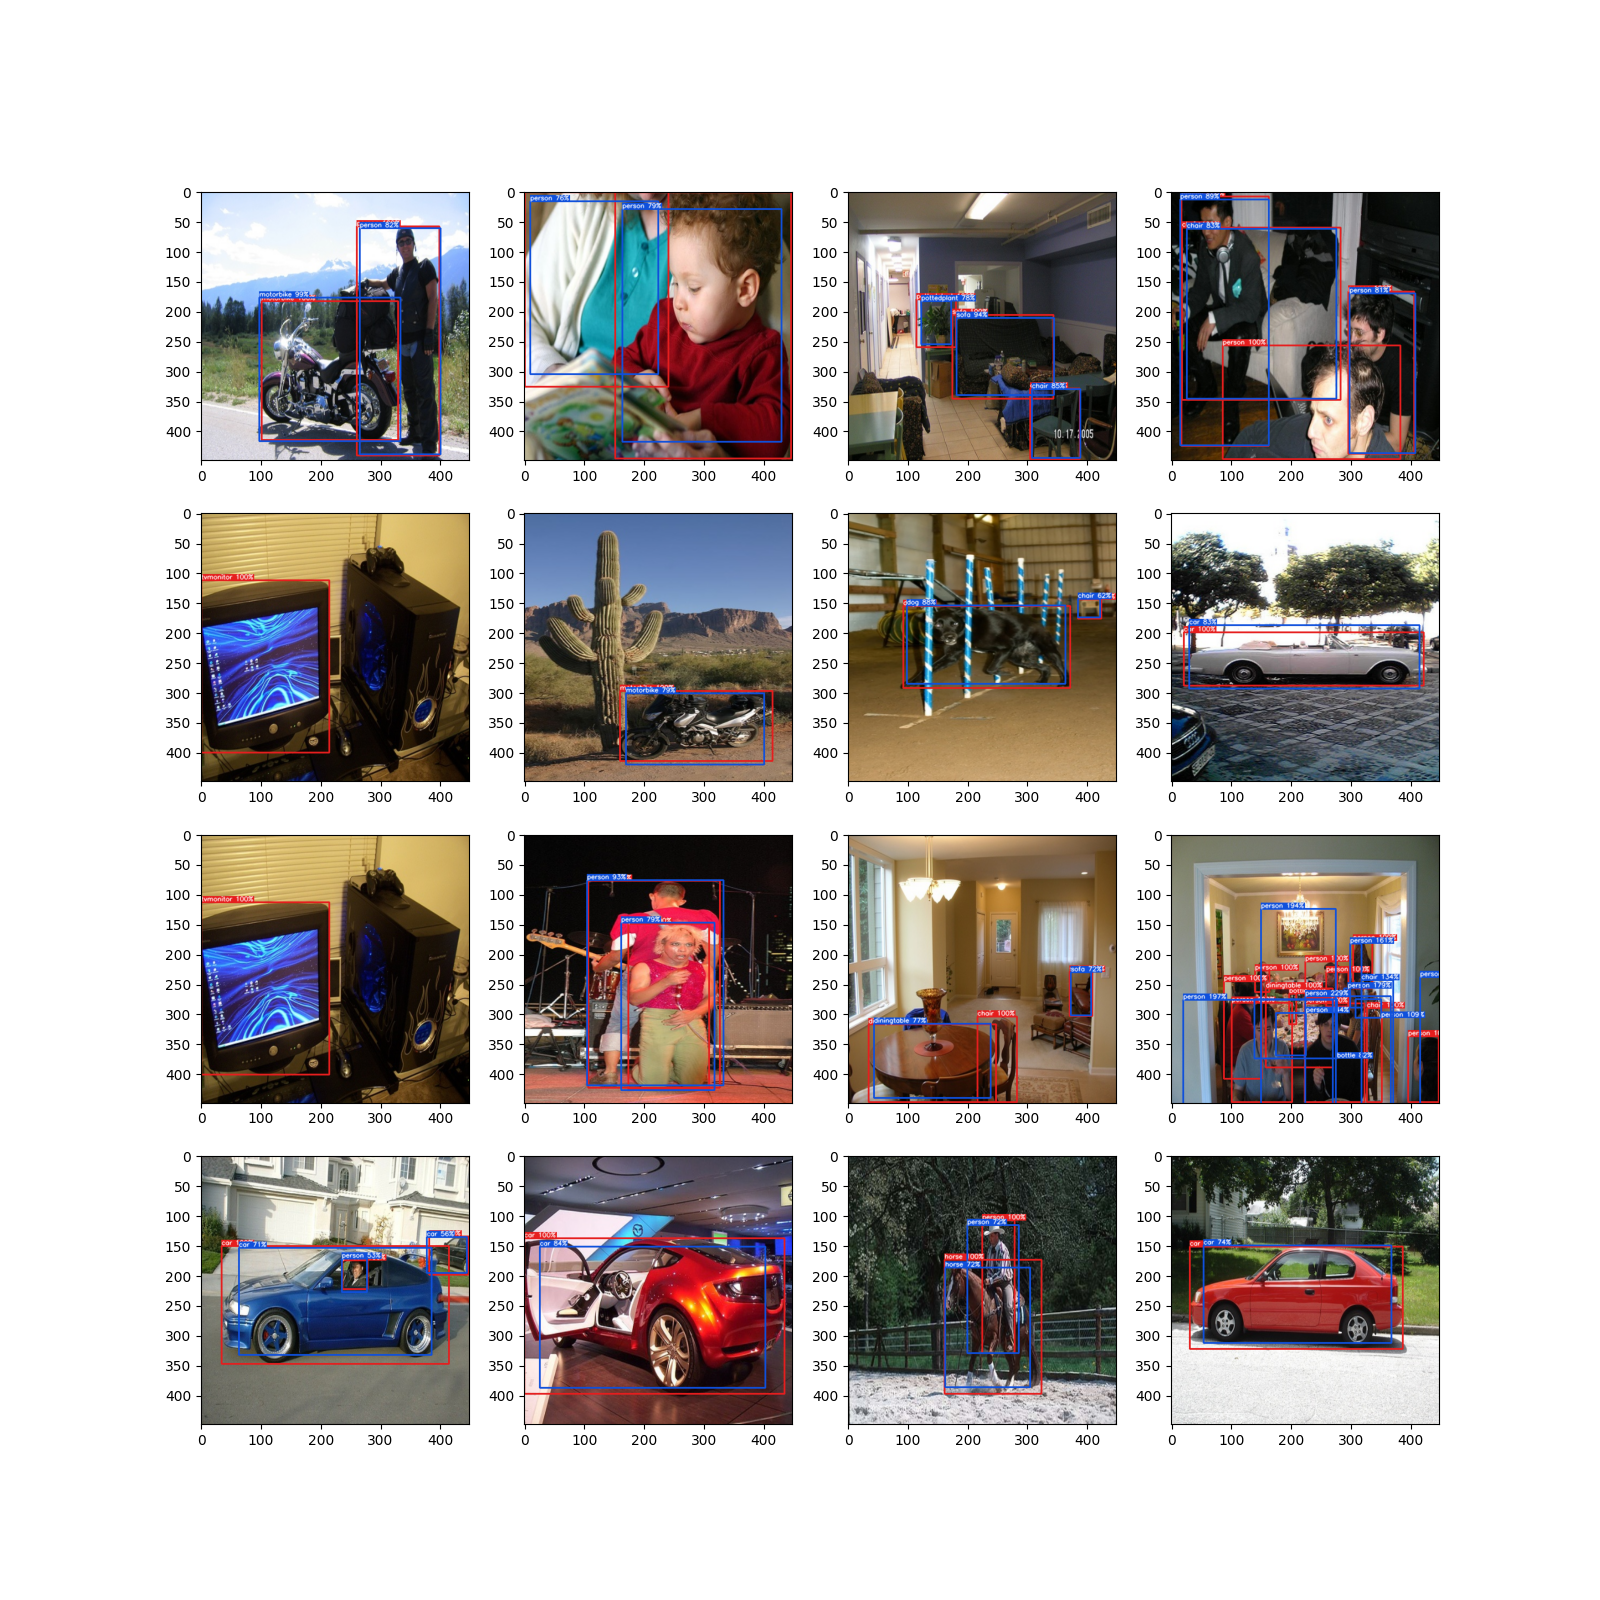
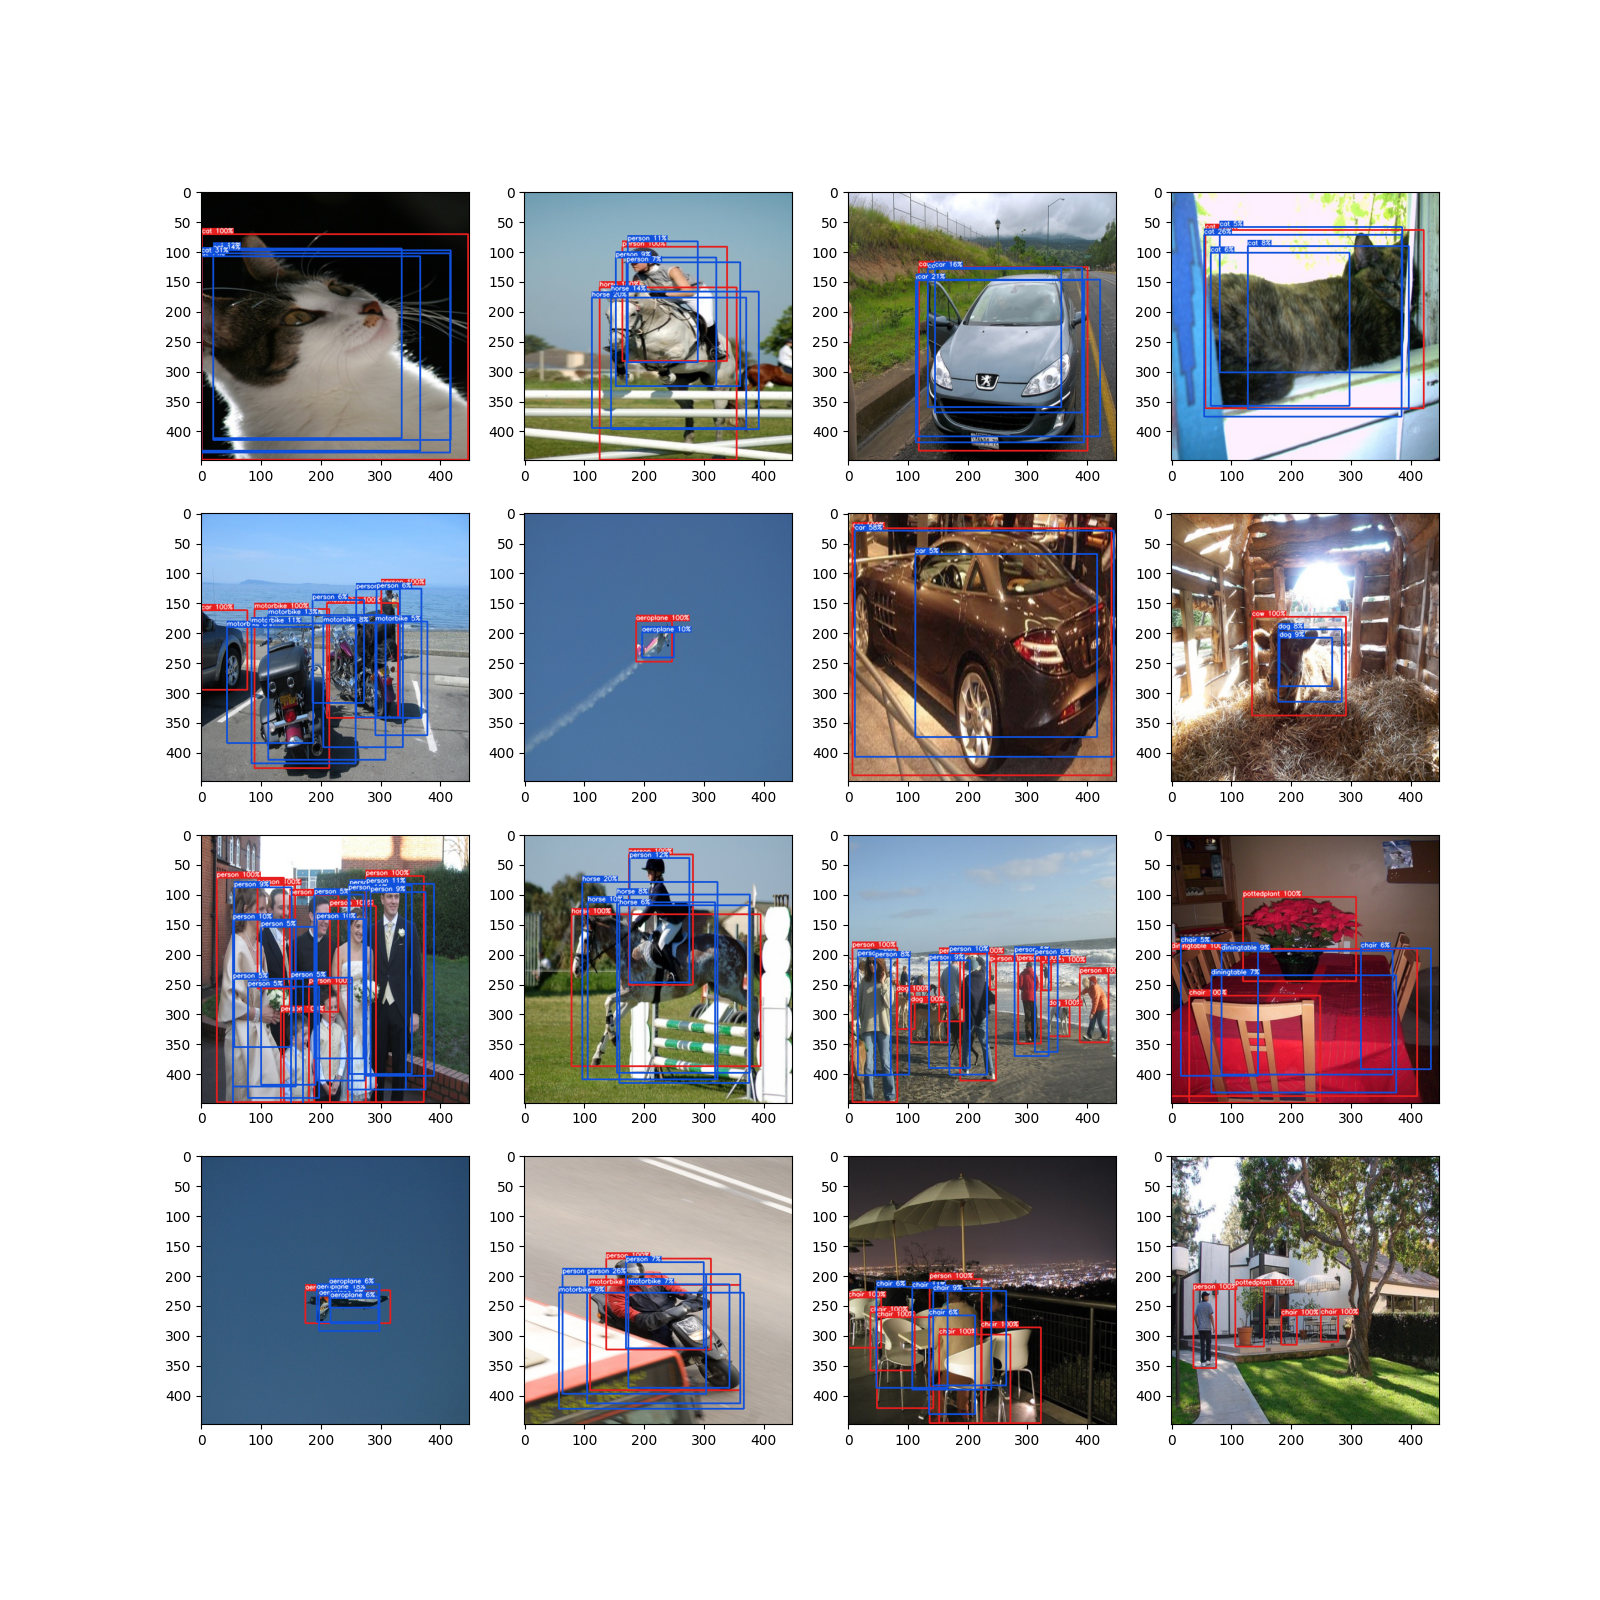
it almost worksgit status

diff --git a/data.py b/data.py
@@ -100,8 +100,8 @@ def list_to_label(label, split_size=7, num_classes=20):
         if label_matrix[row, col, num_classes] or not torch.all(torch.tensor([row,col]) == torch.clamp(torch.tensor([row,col]), min=0, max=split_size-1)): continue
 
         # Transform the box to relative coordinates
-        relativeX, relativeY = split_size * x - col, split_size * y - row
-        width, height = (width * split_size, height * split_size)
+        relativeX, relativeY = x * split_size - col, y * split_size - row
+        #width, height = (width, height * split_size)
 
         # Enter the label into the tensor
         label_matrix[row, col, num_classes] = 1
@@ -115,8 +115,6 @@ def label_to_list(label, split_size = 7, num_classes = 20, threshold = 0.5):
     """Transforms the labels in (7,7,30) or (7,7,25) tensor format into list
     type labels used in the data files and the visualization functions.
     """
-
-    label = label[..., 0:25]
 
     boxes = {
         "bboxes": [],
@@ -135,8 +133,8 @@ def label_to_list(label, split_size = 7, num_classes = 20, threshold = 0.5):
                 x, y, w, h = label[row,col,(num_classes + i*5 + 1):(num_classes + (i+1)*5)].tolist()
                 x = (x + col)/split_size
                 y = (y + row)/split_size
-                w = w/split_size
-                h = h/split_size
+                w = w
+                h = h
                 class_index = torch.argmax(label[row,col,:num_classes])
 
                 boxes['bboxes'].append([x,y,w,h])
@@ -145,13 +143,19 @@ def label_to_list(label, split_size = 7, num_classes = 20, threshold = 0.5):
 
     return boxes
 
-def get_VOC_dataset(params):
+def get_VOC_dataset(params, augment = True):
     transform = albumentations.Compose([
                     #albumentations.Resize(width = 448, height = 448),
                     albumentations.HorizontalFlip(p=0.5),
                     albumentations.RandomResizedCrop(width = 448, height = 448, scale=(0.7, 1.0)),
                     albumentations.ColorJitter(),
-                    ], bbox_params=albumentations.BboxParams(format="yolo", min_visibility=0.75, label_fields=['class_ids']))
+                    albumentations.Blur(blur_limit = 7, always_apply = False, p = 0.5),
+                    albumentations.GaussNoise(var_limit = 40, mean = 0, per_channel = True, always_apply = False, p=0.5)
+                    ], bbox_params=albumentations.BboxParams(format="yolo", min_visibility=0.75, label_fields=['class_ids'])
+                    ) if augment else albumentations.Compose([
+                    albumentations.Resize(width = 448, height = 448),
+                    ], bbox_params=albumentations.BboxParams(format="yolo", min_visibility=0.75, label_fields=['class_ids'])
+                    )
 
     return VOCDataset(
                 params['training_csv'],

diff --git a/train.py b/train.py
@@ -72,7 +72,7 @@ def init(device, model_name, params, features):
     
     if model_name == 'yolo':
         scheduler = WrappedChainScheduler([
-            torch.optim.lr_scheduler.LinearLR(optimizer, start_factor = 0.1, total_iters = 30),
+            torch.optim.lr_scheduler.LinearLR(optimizer, start_factor = 0.1, end_factor = 1.0, total_iters = 10),
             torch.optim.lr_scheduler.MultiStepLR(optimizer, milestones = [75, 105, 135])
             #torch.optim.lr_scheduler.ReduceLROnPlateau(optimizer)
         ])
@@ -85,7 +85,7 @@ def init(device, model_name, params, features):
     loss_function = YoloLoss() if model_name == 'yolo' else torch.nn.CrossEntropyLoss()
     loss_function = loss_function.to(device)
     
-    dataset = get_VOC_dataset(params) if model_name == 'yolo' else get_ImageNet_dataset(params)
+    dataset = get_VOC_dataset(params, augment=True) if model_name == 'yolo' else get_ImageNet_dataset(params)
 
     data_loader = DataLoader(
             dataset = dataset,
@@ -109,13 +109,14 @@ models = {
 @click.option('-f', '--features', help = 'Parent model checkpoint to extract a feature detector from.')
 @click.option('-s', '--seed', type=int, help = 'Manual seed for deterministic behavior.')
 @click.option('-p', '--params', 'param_filename', help = 'Specify a different parameter file.')
-def main(model_name, new, features, seed, param_filename, view): 
+def main(model_name, new, features, seed, param_filename): 
     device = "cuda" if torch.cuda.is_available() else "cpu"
     if not seed is None: torch.manual_seed(seed)
     
     param_filename = param_filename if param_filename else "config/" + model_name + ".json"
     with open(param_filename, "r") as FILE: params = json.load(FILE)
     model, optimizer, loss_function, data_loader, scheduler = init(device, model_name, params, features)
+    
     if not new: load_checkpoint(model, optimizer, scheduler, model_name)
 
     train(device, model, optimizer, loss_function, data_loader, scheduler, params, model_name)

diff --git a/visualize.py b/visualize.py
@@ -6,7 +6,7 @@ import albumentations
 import math
 import cv2
 from torch.utils.data import DataLoader
-from data import VOCDataset
+from data import get_VOC_dataset
 from model import Model
 from checkpoint import load_checkpoint
 
@@ -78,7 +78,7 @@ def visualize(device, model, data_loader, plots_per_row = 4):
         inferences = model(images.to(device)).reshape(1, 7, 7, 30).to('cpu')
         ax = axs[int(i/plots_per_row), i % plots_per_row]
         target_labels = label_to_list(targets[0, ...])
-        inference_labels = label_to_list(inferences[0, ...], threshold = 0.5)
+        inference_labels = label_to_list(inferences[0, ...], threshold = 0.05)
         
         image = (255 * images[0, ...]).type(torch.ByteTensor).permute(1, 2, 0).numpy()
         
@@ -93,16 +93,12 @@ def main():
     model = Model(classifier_name = f"yolo_classifier").to(device)
     load_checkpoint(model, None, None, "yolo")
 
-    transform = albumentations.Compose([
-                    albumentations.Resize(width = 448, height = 448),
-                    ], bbox_params=albumentations.BboxParams(format="yolo", min_visibility=0.75, label_fields=['class_ids']))
-
-    dataset = VOCDataset(
-                "data/100examples.csv",
-                transform = transform,
-                img_dir = "data/images",
-                label_dir = "data/labels"
-                )
+    dataset = get_VOC_dataset(params = {
+            'training_csv': "data/test.csv",
+            'img_dir': "data/images",
+            'label_dir': "data/labels"
+        },
+        augment=False)
 
     data_loader = DataLoader(
             dataset = dataset,

diff --git a/loss.py b/loss.py
@@ -11,7 +11,7 @@ def mean_average_precision(predictions, targets, min_iou = 0.5):
     num_target_boxes = 0
     for prediction, target in zip(predictions, targets):
         num_target_boxes += len(target['bboxes'])
-        for bbox, confidence in zip(predictions['bboxes'], predictions['confidences']):
+        for bbox, confidence in zip(prediction['bboxes'], prediction['confidences']):
             max_iou = max([intersection_over_union(bbox, target_bbox) for target_bbox in target['bboxes']])
             evaluations.append({
                 "confidence": confidence,
@@ -79,7 +79,7 @@ class YoloLoss(nn.Module):
                     box_predictions[..., i, 1:], 
                     box_target[..., i, 1:]
                     ).unsqueeze(0)
-                for i in range(2)
+                for i in range(self.num_boxes)
             ],
             dim = 0
             )

diff --git a/README.md b/README.md
@@ -57,8 +57,10 @@ Most of the implementation is a direct copy of the paper. The paper was not spec
 - Dropout with probability 0.5
 - 1000 fully connected neurons (output)
 
-Following Aladdin's implementation, we have added batch normalization to each convolutional layer. We have also chosen to use an adaptive learning rate scheduler, Torch's `ReduceLROnPlateau` with default settings. This is the only scheduler for pre-training.
+Following Aladdin's implementation, we have added batch normalization to each convolutional layer. We have also chosen to use an adaptive learning rate scheduler, Torch's `ReduceLROnPlateau` with default settings. This is the only scheduler for pre-training. The paper does not give exact details about the design of the burn in scheduler for the YOLO training. It is certainly true that raising the learning rate too fast early in training causes the gradients to diverge. I found that the initial learning rate of 1e-3 was also too high. Instead, I opted to linearly interpolate from 1e-4 to 1e-3 over the first 10 epochs, then from 1e-3 to 1e-2 over the next 10 epochs, before switching to the landmarking schedule described in the paper. 
+
+Over the course of getting all the little moving pieces right, I noticed that the model is very sensitive to the relative weighting of the components of the loss function. If width and height are mistakenly normalized with respect to the cell bounding boxes rather than the overall image, for example, the model will not sufficiently emphasize classification of objects, resulting in mode collapse---I found over several failed attempts that it would always classify almost every object as a person. 
 
 ## Training Report
 
-A friend provided the machine for training the model. The graphics card was an RTX 3090. The model was pre-trained with the ImageNet classifier for 400 epochs (~6 hours), with an initial average cross-entropy loss of 7.78 (after the first epoch) and a final loss of 0.164. The initial learning rate was chosen to be 10^-1 and the final learning rate was observed to be 10^-3. The validation accuracy after training was 11%, with accuracy on the training set at 91%, indicating a high degree of overfitting. This is obviously nowhere near as good as the 88% test validation reported in the paper, but on the other hand we did not have the resources to train on the full ImageNet-1000 set for 2 weeks. The YOLO model was then trained for 135 epochs following the learning rate schedule described in the paper, with an initial average MSE loss of 0.183 (after the first epoch) and a final loss of 0.0111. 
+A friend provided the machine for training the model. The graphics card was an RTX 3090. The model was pre-trained with the ImageNet classifier for 400 epochs (~6 hours), with an initial average cross-entropy loss of 7.78 (after the first epoch) and a final loss of 0.164. The initial learning rate was chosen to be 10^-1 and the final learning rate was observed to be 10^-3. The validation accuracy after training was 11%, with accuracy on the training set at 91%, indicating a high degree of overfitting. This is obviously nowhere near as good as the 88% test validation reported in the paper, but on the other hand we did not have the resources to train on the full ImageNet-1000 set for 2 weeks. The YOLO model was then trained for 135 epochs following the learning rate schedule described in the paper with ther recommended batch size of 64, with an initial average MSE loss of 0.183 (after the first epoch) and a final loss of 0.0111. However, the results were less than pleasing. Training for 340 epochs using 
